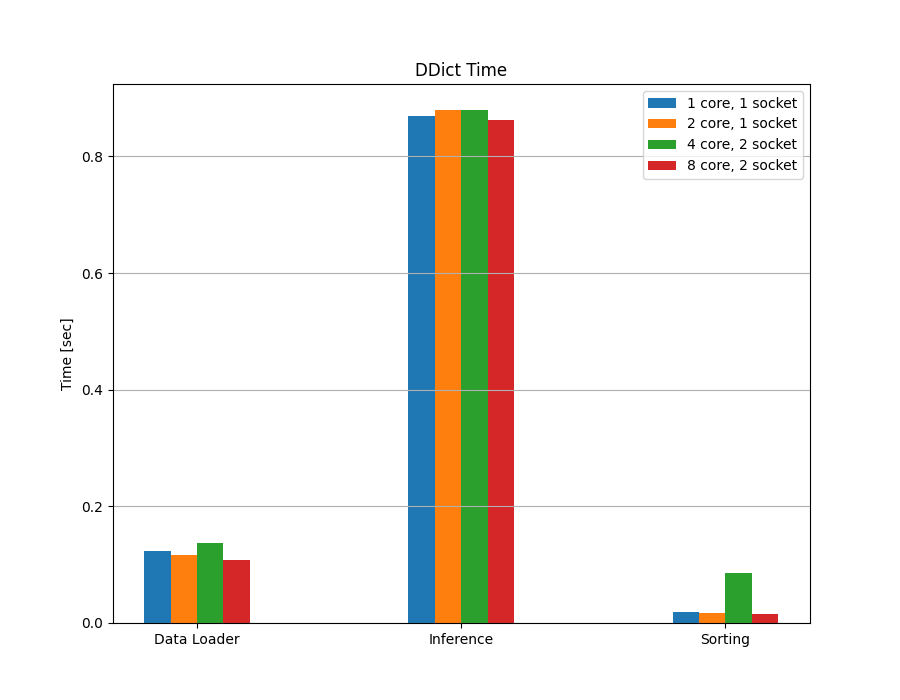
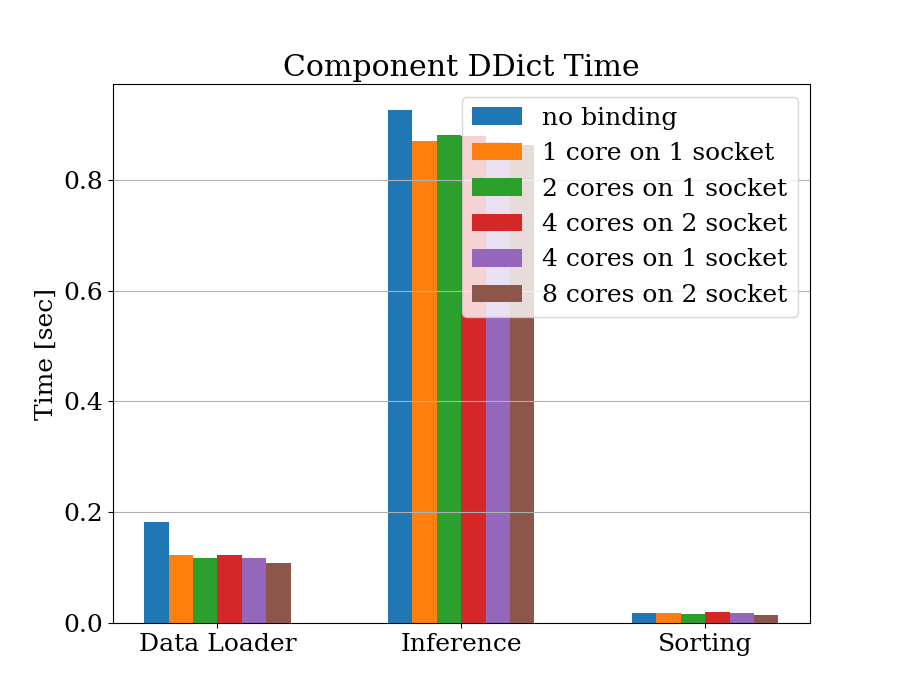
Add load-only option

diff --git a/Dragon/plot/cpu_bind/plot_ddict_cpu.py b/Dragon/plot/cpu_bind/plot_ddict_cpu.py
@@ -1,19 +1,42 @@
 import numpy as np
+import matplotlib
 from matplotlib import pyplot as plt
+font = {
+        'family' : 'serif',
+        'weight' : 'normal',
+        'size'   : 18}
+matplotlib.rc('font', **font)
 
 case_files = [
+    '/flare/hpe_dragon_collab/balin/PASC25/runs/ddict_cpu_bind/tiny_8192/no_bind/mldocking_seq_ddict.o5514950', #mldocking_seq_ddict.o5509642',
     '/flare/hpe_dragon_collab/balin/PASC25/runs/ddict_cpu_bind/tiny_8192/1c_1s/mldocking_seq_ddict.o5504843',
     '/flare/hpe_dragon_collab/balin/PASC25/runs/ddict_cpu_bind/tiny_8192/2c_1s/mldocking_seq_ddict.o5504912',
-    '/flare/hpe_dragon_collab/balin/PASC25/runs/ddict_cpu_bind/tiny_8192/2c_2s/mldocking_seq_ddict.o5504929',
+    '/flare/hpe_dragon_collab/balin/PASC25/runs/ddict_cpu_bind/tiny_8192/2c_2s/mldocking_seq_ddict.o5509551',
+    '/flare/hpe_dragon_collab/balin/PASC25/runs/ddict_cpu_bind/tiny_8192/4c_1s/mldocking_seq_ddict.o5509066',
+    #'/flare/hpe_dragon_collab/balin/PASC25/runs/ddict_cpu_bind/tiny_8192/4c_1s_2man/mldocking_seq_ddict.o5509066',
     '/flare/hpe_dragon_collab/balin/PASC25/runs/ddict_cpu_bind/tiny_8192/4c_2s/mldocking_seq_ddict.o5509012'
 ]
 legend = [
-    '1 core, 1 socket',
-    '2 core, 1 socket',
-    '4 core, 2 socket',
-    '8 core, 2 socket',
+    'no binding',
+    '1 core on 1 socket',
+    '2 cores on 1 socket',
+    '4 cores on 2 socket',
+    '4 cores on 1 socket',
+    #'4 cores on 1 socket 2 managers',
+    '8 cores on 2 socket',
 ]
-keys = ['nodes','procs','load_IO_avg','load_IO_max','load_ddict_avg','load_ddict_max','inf_ddict_avg','inf_ddict_max','sort']
+keys = ['nodes',
+        'procs',
+        'load_IO_avg',
+        'load_IO_max',
+        'load_ddict_avg',
+        'load_ddict_max',
+        'inf_ddict_avg',
+        'inf_ddict_max',
+        'sort_IO',
+        'load',
+        'inference',
+        'sort']
 
 
 def parse_history_line(l):
@@ -42,6 +65,8 @@ for case in case_files:
                 cases[case]['nodes'] = int(l.split(' ')[-2])
             if "Number of Pool processes" in l:
                 cases[case]['procs'] = int(l.split(' ')[-1])
+            if "Loaded inference data in" in l:
+                cases[case]['load'] = float(l.split(' ')[-2])
             if "IO times:" in l:
                 parsed_l=l.split(":")[-1].split(",")
                 cases[case]['load_IO_avg'] = float(parsed_l[0].split("=")[-1].split(" ")[0])
@@ -50,27 +75,44 @@ for case in case_files:
                 parsed_l=l.split(":")[-1].split(",")
                 cases[case]['load_ddict_avg'] = float(parsed_l[0].split("=")[-1].split(" ")[0])
                 cases[case]['load_ddict_max'] = float(parsed_l[1].split("=")[-1].split(" ")[0])
+            if "Performed inference in" in l:
+                cases[case]['inference'] = float(l.split(' ')[-3])
             if "Performed inference on" in l:
                 parsed_l = l.split(":")[-1].split(",")[1]
                 inf_ddict_time.append(float(parsed_l.split("=")[-1]))
             if "Performed sorting of 10000 compounds" in l:
-                cases[case]['sort'] = float(l.split(":")[-1].split(",")[-1].split("=")[-1])
+                cases[case]['sort_IO'] = float(l.split(":")[-1].split(",")[-1].split("=")[-1])
+            if "Performed sorting of 8192" in l:
+                cases[case]['sort'] = float(l.split(" ")[-3])
+
 
         cases[case]['inf_ddict_avg'] = sum(inf_ddict_time)/len(inf_ddict_time)
         cases[case]['inf_ddict_max'] = max(inf_ddict_time)
 
 
-# 
-# Plot results
+# Plot load, inf, sort times
 labels = ['Data Loader', 'Inference', 'Sorting']
 x = np.arange(len(labels))  # the label locations
 width = 0.1  # the width of the bars
+factors = [-2.5,-1.5,-0.5,0.5,1.5,2.5]
 fig, axs = plt.subplots(nrows=1, ncols=1, figsize=(9, 7))
-factors = [-1.5,-0.5,0.5,1.5]
 for i, case in enumerate(cases):
-    axs.bar(x+factors[i]*width, [cases[case]['load_IO_avg'], cases[case]['inf_ddict_avg'], cases[case]['sort']], width,label=legend[i])
+    axs.bar(x+factors[i]*width, [cases[case]['load'], cases[case]['inference'], cases[case]['sort']], width,label=legend[i])
+axs.set_yscale('log')
 axs.set_ylabel('Time [sec]')
-axs.set_title('DDict Time')
+axs.set_title('Component Time')
+axs.set_xticks(x);axs.set_xticklabels(labels)
+#axs.set_xticks(x, labels)
+axs.legend()
+axs.grid(axis='y')
+fig.savefig('plt_comp_time.png')
+
+# Plot DDIct times
+fig, axs = plt.subplots(nrows=1, ncols=1, figsize=(9, 7))
+for i, case in enumerate(cases):
+    axs.bar(x+factors[i]*width, [cases[case]['load_IO_avg'], cases[case]['inf_ddict_avg'], cases[case]['sort_IO']], width,label=legend[i])
+axs.set_ylabel('Time [sec]')
+axs.set_title('Component DDict Time')
 axs.set_xticks(x);axs.set_xticklabels(labels)
 #axs.set_xticks(x, labels)
 axs.legend()

diff --git a/Dragon/dragon_driver_sequential.py b/Dragon/dragon_driver_sequential.py
@@ -54,8 +54,10 @@ if __name__ == "__main__":
                         help='Timeout for Dictionary in seconds')
     parser.add_argument('--data_path', type=str, default="/lus/eagle/clone/g2/projects/hpe_dragon_collab/balin/ZINC-22-2D-smaller_files",
                         help='Path to pre-sorted SMILES strings to load')
-    parser.add_argument('--logging', type=str, default="info",
+    parser.add_argument('--logging', type=str, default="info", choices=["info","debug"],
                         help='Logging level')
+    parser.add_argument('--load', type=str, default="False", choices=["False", "True"],
+                        help='Perform data loading only')
     parser.add_argument('--inference_and_sort', type=str, default="False", choices=["False", "True"],
                         help='Perform inference and sorting only')
     args = parser.parse_args()
@@ -126,7 +128,7 @@ if __name__ == "__main__":
     # Initialize Dragon Dictionaries for inference, docking simulation, and model list
     data_dd_cpu_bind = os.getenv("DATA_DD_CPU_AFFINITY").split(",")
     data_dd_policy = [Policy(placement=Policy.Placement.HOST_NAME, 
-                             host_name=Node(nodelist["inference"][node]).hostname, 
+                             host_name=Node(nodelist["inference"][node]).hostname,
                              cpu_affinity=data_dd_cpu_bind) \
                       for node in range(len(nodelist["inference"]))]
     data_dd = DDict(None, 
@@ -135,16 +137,17 @@ if __name__ == "__main__":
                     policy=data_dd_policy)
     print(f"Launched Dragon Dictionary for inference with total memory size {data_dict_mem} on {node_counts['inference']} nodes", flush=True)
     
-    sim_dd_cpu_bind = os.getenv("SIM_DD_CPU_AFFINITY").split(",")
-    sim_dd_policy = [Policy(placement=Policy.Placement.HOST_NAME, 
-                            host_name=Node(nodelist["simulation"][node]).hostname, 
-                            cpu_affinity=sim_dd_cpu_bind) \
-                      for node in range(len(nodelist["simulation"]))]
-    sim_dd = DDict(None, 
-                   None, 
-                   sim_dict_mem,
-                   policy=sim_dd_policy)
-    print(f"Launched Dragon Dictionary for docking simulation with total memory size {sim_dict_mem} on {node_counts['simulation']} nodes", flush=True)
+    if args.load == "False":
+        sim_dd_cpu_bind = os.getenv("SIM_DD_CPU_AFFINITY").split(",")
+        sim_dd_policy = [Policy(placement=Policy.Placement.HOST_NAME, 
+                                host_name=Node(nodelist["simulation"][node]).hostname,
+                                cpu_affinity=sim_dd_cpu_bind) \
+                        for node in range(len(nodelist["simulation"]))]
+        sim_dd = DDict(None, 
+                    None, 
+                    sim_dict_mem,
+                    policy=sim_dd_policy)
+        print(f"Launched Dragon Dictionary for docking simulation with total memory size {sim_dict_mem} on {node_counts['simulation']} nodes", flush=True)
 
     model_dd_cpu_bind = os.getenv("MODEL_DD_CPU_AFFINITY").split(",")
     model_dd_policy = Policy(cpu_affinity=model_dd_cpu_bind)
@@ -178,14 +181,22 @@ if __name__ == "__main__":
     toc = perf_counter()
     load_time = toc - tic
     if loader_proc.exitcode == 0:
-        print(f"Loaded inference data in {load_time:.3f} seconds", flush=True)
+        print(f"Executed inference data mp.Process in {load_time:.3f} seconds", flush=True)
     else:
         raise Exception(f"Data loading failed with exception {loader_proc.exitcode}")
 
     if args.logging == "debug":
-        print("Here are the stats after data loading...")
-        print("Data Dictionary stats:", flush=True)
-        print(data_dd.stats)
+        print("\nHere are the data DDict stats after data loading...",flush=True)
+        for stat in data_dd.stats:
+            print(f"manager_ID={stat.manager_id}, ",
+                  f"host_name={stat.hostname}, ",
+                  f"num_keys={stat.num_keys}, ",
+                  f"used_mem={stat.pool_utilization}, ",
+                  f"total_mem={stat.total_bytes}",
+                  flush=True)
+    
+    if args.load == "True":
+        sys.exit()
 
     # Load pretrained model
     load_pretrained_model(model_list_dd)

diff --git a/Dragon/data_loader/data_loader_presorted.py b/Dragon/data_loader/data_loader_presorted.py
@@ -190,6 +190,7 @@ def load_inference_data(_dict: DDict,
     total_data_size = 0
     io_times = []
     ddict_times = []
+    tic = perf_counter()
     if load_split_factor == 1:
         pool = mp.Pool(num_procs, 
                        initializer=initialize_worker, 
@@ -209,8 +210,7 @@ def load_inference_data(_dict: DDict,
             num_pool_procs = num_procs
             pool = mp.Pool(num_pool_procs, 
                         initializer=initialize_worker, 
-                        initargs=(_dict,),
-                        policy=policy)
+                        initargs=(_dict,))
             #print(f"Pool initialized", flush=True)
             #print(f"Reading smiles for {num_files}", flush=True)
 
@@ -235,6 +235,8 @@ def load_inference_data(_dict: DDict,
             print(f"Pool closed", flush=True)
             pool.join()
             print(f"Pool joined", flush=True)
+    load_time = perf_counter() - tic
+    print(f"Loaded inference data in {load_time} sec", flush=True)
     print(f"Total data read {total_data_size} GB", flush=True)
     print(f"IO times: avg={sum(io_times)/len(io_times)} sec, max={max(io_times)} sec", flush=True)
     print(f"DDict times: avg={sum(ddict_times)/len(ddict_times)} sec, max={max(ddict_times)} sec", flush=True)
